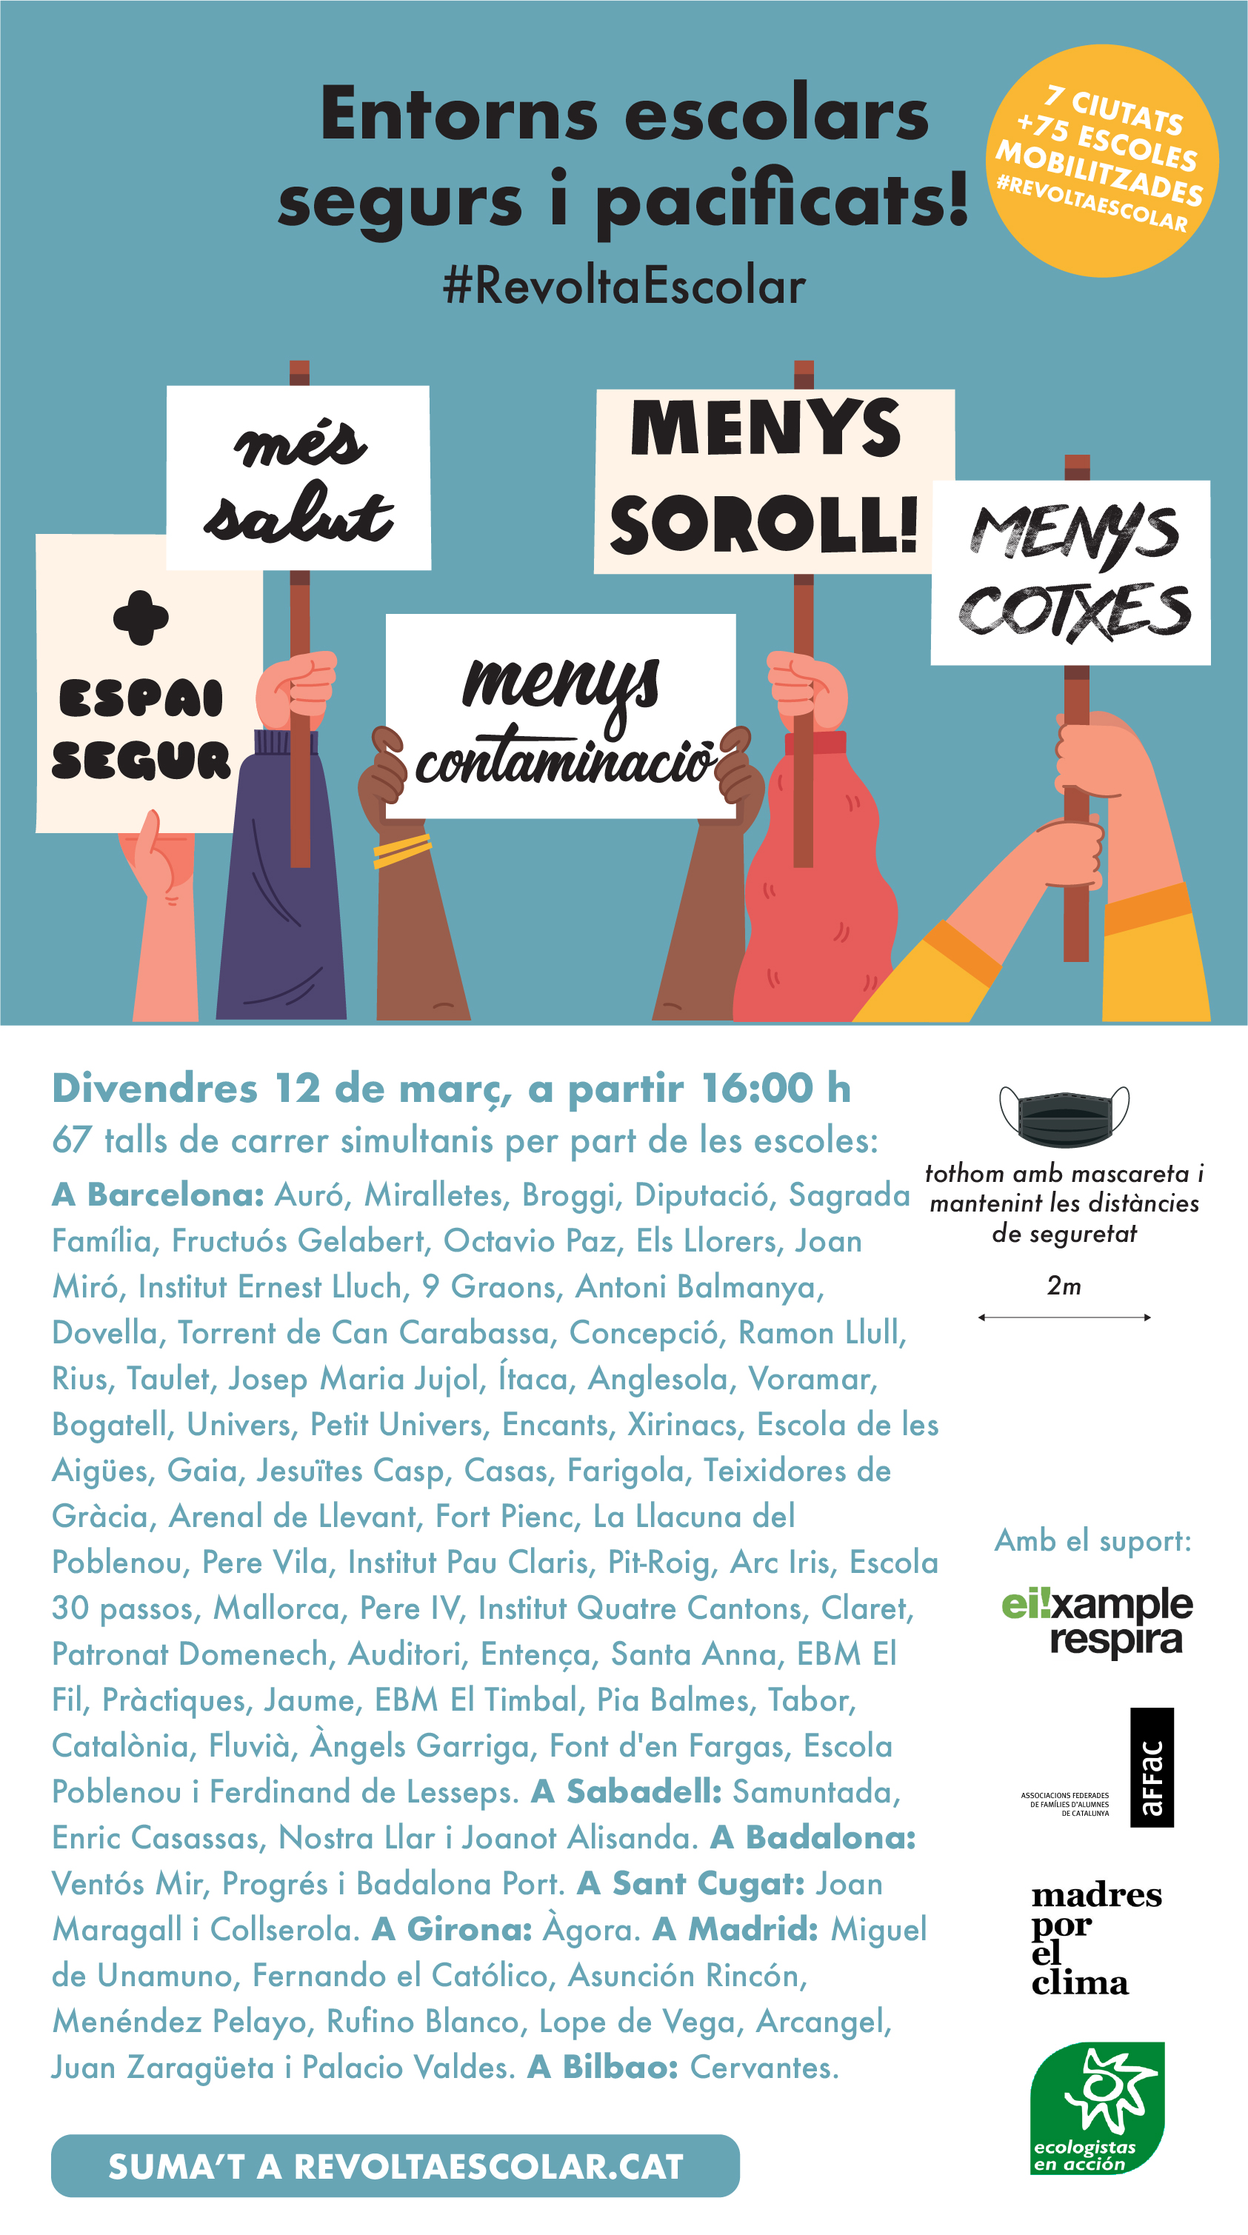
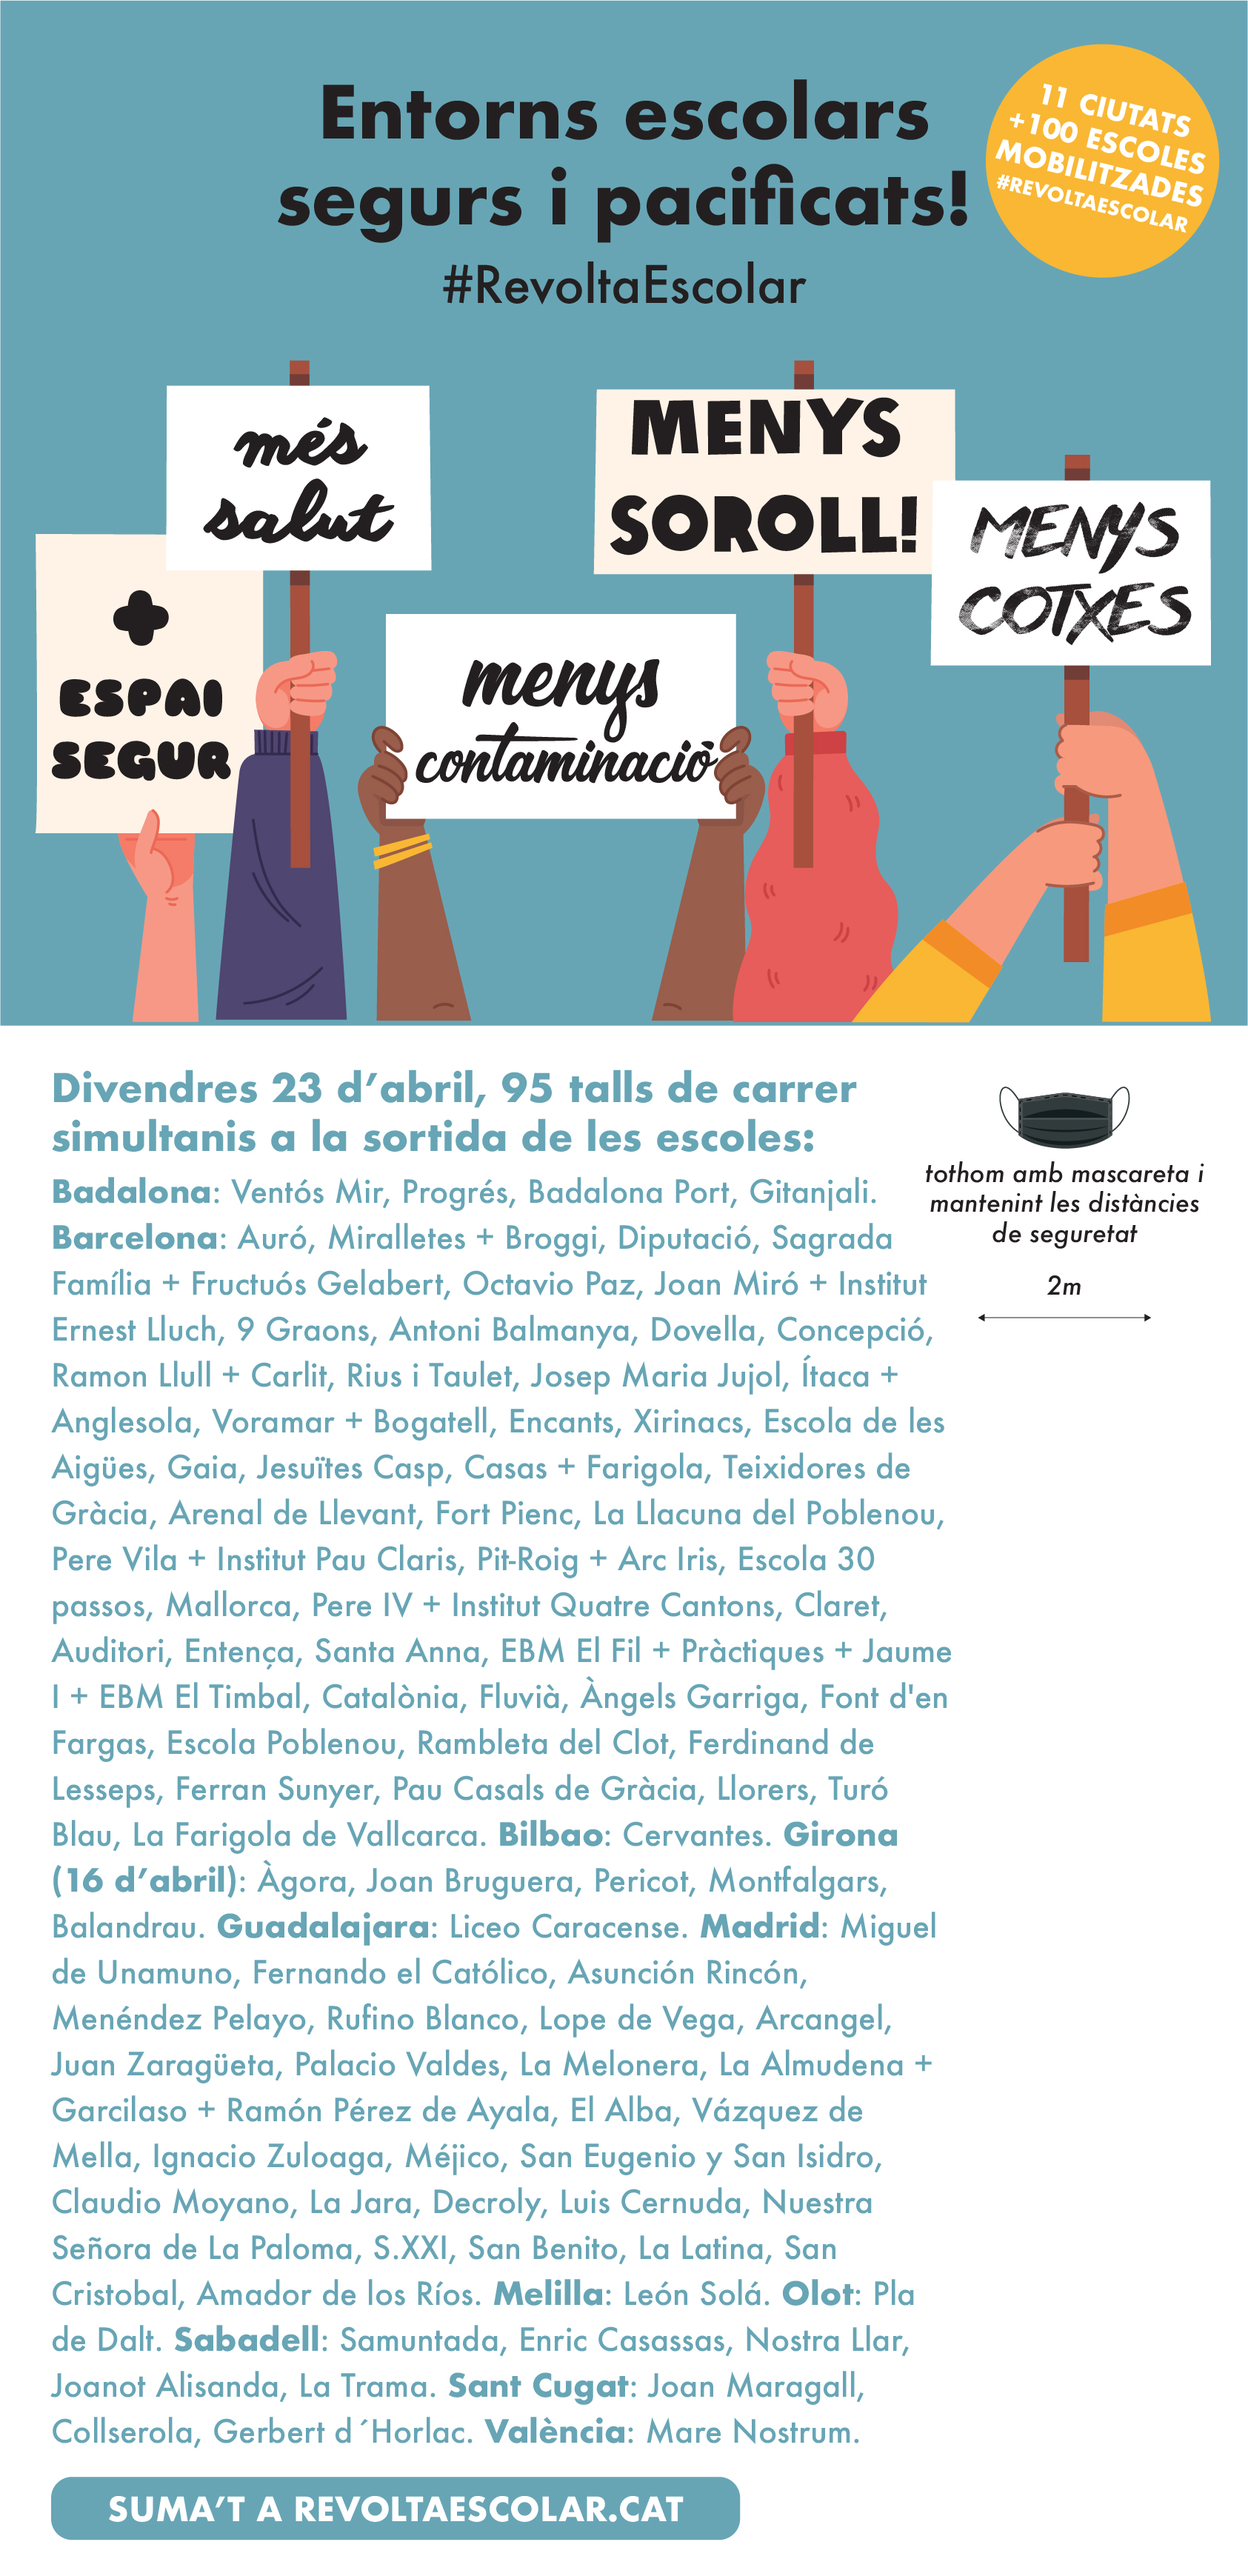
Updated info

diff --git a/index.html b/index.html
@@ -10,12 +10,12 @@ title: Eixample Respira
       <div class="wrapintro">
         <!-- <img src="/assets/images/stop-contaminacio.png" alt="Stop Contaminació! Menys cotxes, més salut!" /> -->
         <a href="https://www.revoltaescolar.cat">
-          <img src="/assets/images/revolta-escolar.jpg?v=1" alt="Escola a escola, recuperem la ciutat!" />
+          <img src="/assets/images/revolta-escolar.jpg?v=4" alt="Escola a escola, recuperem la ciutat!" />
         </a>
       </div>
       <div class="wrapintro">
         <a href="https://docs.google.com/document/d/1nPhCGudosSaSHg1A8b91DmWjArC_WlXT-XNncNUpUqU/edit">
-          <img src="/assets/images/unitari-veins.jpg?v=9" alt="Carrer a carrer, recuperem la ciutat!" />
+          <img src="/assets/images/revolta-veinal.jpg?v=1" alt="Carrer a carrer, recuperem la ciutat!" />
         </a>
           <!-- <h2 class="lead">Som una plataforma veïnal, apartidista, del districte de l'Eixample de Barcelona que compartim una gran preocupació per la qualitat de l'aire que respirem.</h2>
           <br><a href="{{ site.baseurl }}/manifest" class="btn">Llegir manifest</a> -->
@@ -103,6 +103,14 @@ title: Eixample Respira
           <a target="_blank" href="https://docs.google.com/document/d/1nPhCGudosSaSHg1A8b91DmWjArC_WlXT-XNncNUpUqU/edit">Guia per a veïns</a><br>
           <ul>
             <li>
+              <b>25/4/2021</b><br>
+              7 talls de carrer a Barberà del Vallès, Barcelona (3), L'Hospitalet de Llobregat, El Masnou i Olot.
+            </li>
+            <li>
+              <b>28/2/2021</b><br>
+              6 talls de carrer a Barcelona, L'Hospitalet de Llobregat, Olot, Sabadell i Vilassar de Mar.
+            </li>
+            <li>
               <b>31/1/2021</b><br>
               6 talls de carrer a Barcelona, Sabadell, Barberà del Vallès, Premià de Mar i Olot<br>
               <a href="https://beteve.cat/societat/eixample-respira-tallara-arago-ultim-diumenge-cada-mes/">BTV</a>
@@ -114,6 +122,23 @@ title: Eixample Respira
           #RevoltaEscolar: Campanya de mobilització de les escoles<br>
           <a target="_blank" href="https://www.revoltaescolar.cat">Web de la campanya</a> / <a target="_blank" href="https://docs.google.com/document/d/1xB08XVq6vr49w39g8xU6GAhPqYOKI_hkK94E1BjBFSA">Manifest unitari</a> / <a target="_blank" href="https://docs.google.com/document/d/1XUidds20lR-uaqonZoSppbSEcB-msKRmgwjtPqwPxFk">Guia per a escoles</a><br>
           <ul>
+            <li>
+              <b>23/4/2021</b><br>
+              95 talls de carrer a 11 ciutats: Badalona, Barcelona, Bilbao, Girona, Guadalajara, Madrid, Melilla, Olot, Sabadell, Sant Cugat i València.
+            </li>
+            <li>
+              <b>9/4/2021</b><br>
+              91 talls de carrer a 11 ciutats: Badalona, Barcelona, Bilbao, Girona, Guadalajara, Madrid, Melilla, Olot, Sabadell, Sant Cugat i València.<br>
+              <a href="https://elpais.com/espana/catalunya/2021-04-09/cortado-el-trafico-en-91-colegios-de-barcelona-para-exigir-accesos-a-los-centros-con-menos-coches.html">El País</a>
+            </li>
+            <li>
+              <b>26/3/2021</b><br>
+              35 talls de carrer a 10 ciutats: Barcelona, Sabadell, Badalona, Sant Cugat, Girona, Madrid. Bilbao, Melilla, Guadalajara i València.
+            </li>
+            <li>
+              <b>12/3/2021</b><br>
+              67 talls de carrer a 7 ciutats: Barcelona, Sabadell, Badalona, Sant Cugat, Girona, Madrid i Bilbao
+            </li>
             <li>
               <b>26/2/2021</b><br>
               48 talls de carrer a Barcelona, Sabadell, Badalona i Sant Cugat<br>
